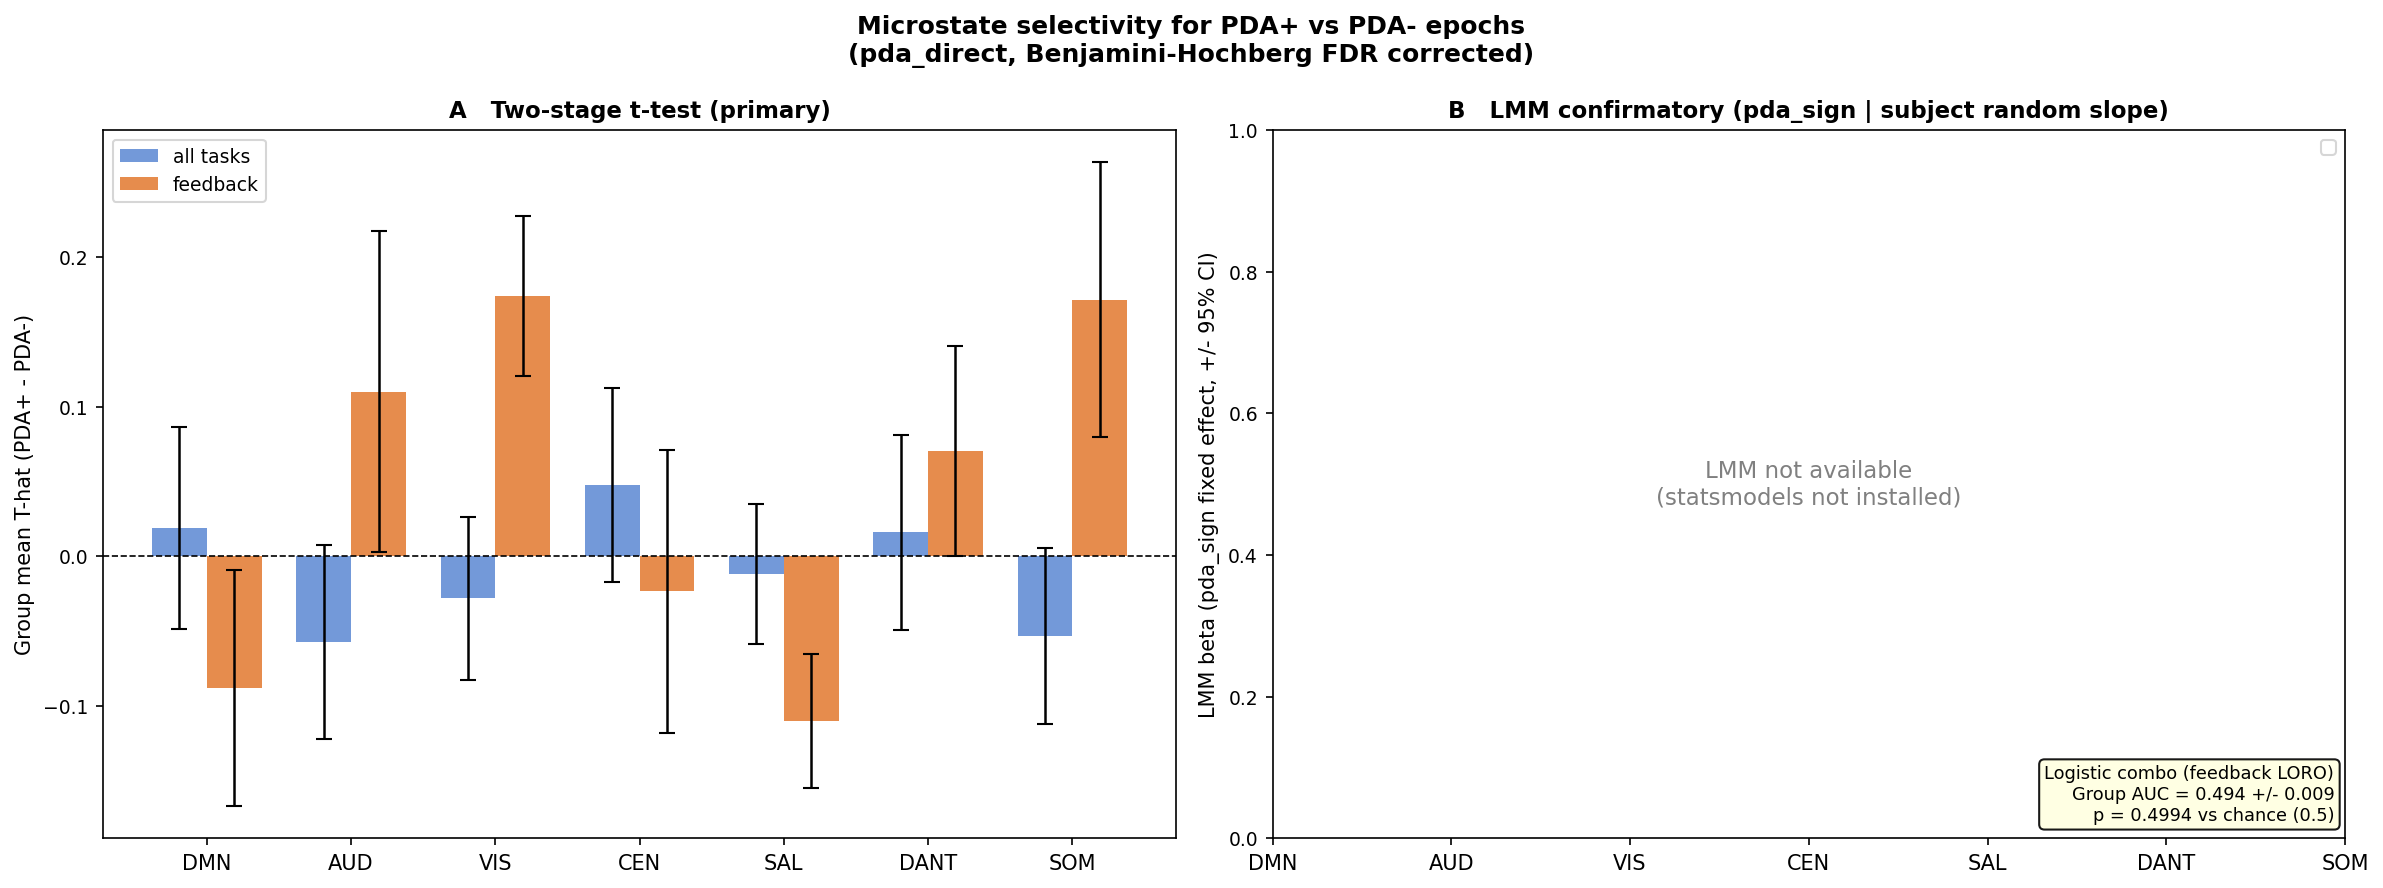
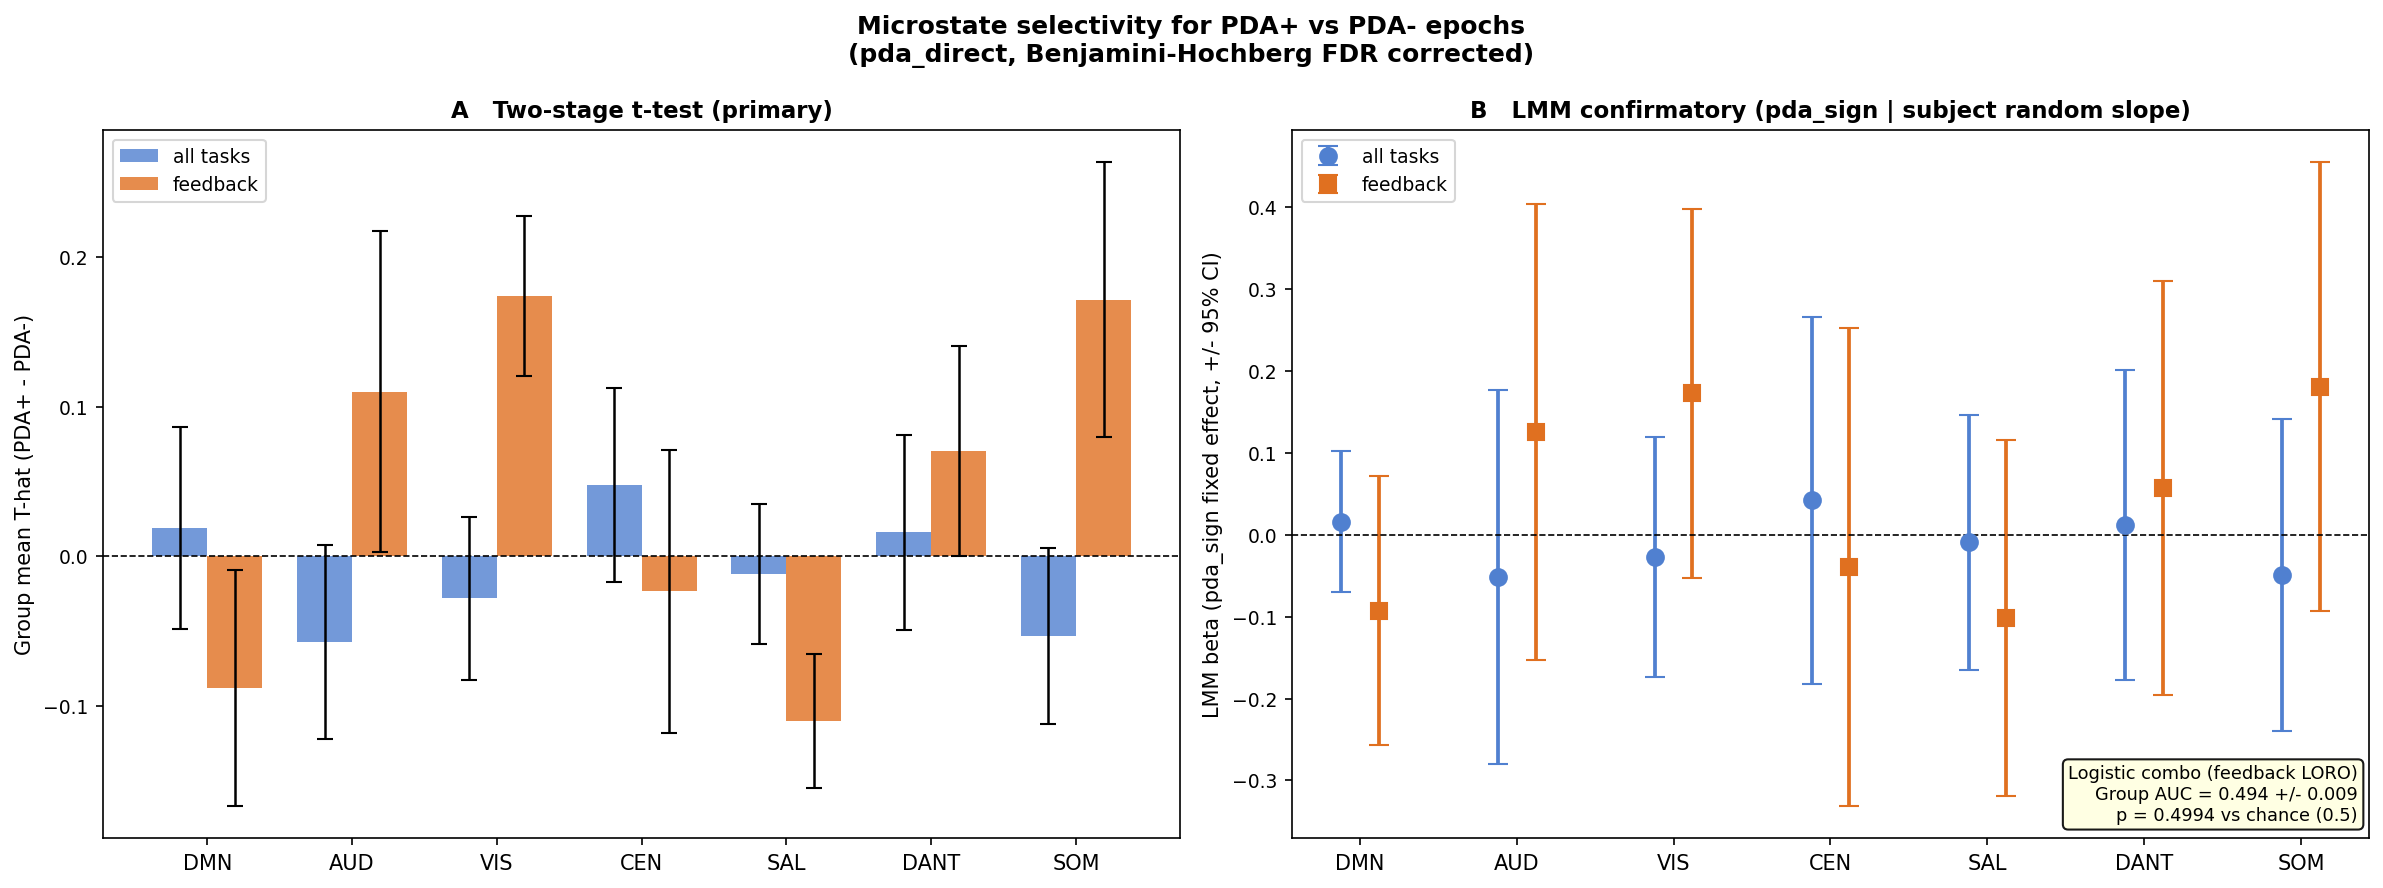
fix LMM CSV bug; regenerate step 06 figures with correct data
write_csv now uses union of all row keys so LMM rows (with interaction_p)
are no longer silently dropped. Reran cluster job 6282731 with statsmodels
installed; re-fetched all three CSVs and both PNGs. Panel B (LMM forest)
is now populated in both cluster and local summary figures.

add make_summary_figure.py: local 3-panel summary from results/stats CSVs
(t-test bars / LMM forest with interaction dagger / logistic LORO AUC)

diff --git a/make_summary_figure.py b/make_summary_figure.py
@@ -1,0 +1,196 @@
+#!/usr/bin/env python3
+"""
+make_summary_figure.py
+Regenerate results/stats/summary_figure_250Hz.png from local CSVs.
+
+Panel A: Two-stage group t-test bars (all tasks vs feedback)
+Panel B: LMM fixed-effect forest plot with 95% CI (dagger = task interaction p<0.05)
+Panel C: Logistic LORO AUC per subject, group mean +/- SE vs chance (0.5)
+"""
+import csv
+import numpy as np
+import matplotlib
+matplotlib.use("Agg")
+import matplotlib.pyplot as plt
+from pathlib import Path
+from scipy import stats as spstats
+
+HERE   = Path(__file__).parent
+STATS  = HERE / "results" / "stats"
+TAG    = "250Hz"
+OUT    = STATS / f"summary_figure_{TAG}.png"
+
+MS_LABELS = ["DMN", "AUD", "VIS", "CEN", "SAL", "DANT", "SOM"]
+N_MS = len(MS_LABELS)
+x    = np.arange(N_MS)
+
+C_ALL = "#5080D0"
+C_FB  = "#E07020"
+
+
+def read_csv(path):
+    with open(path, newline="") as f:
+        return list(csv.DictReader(f))
+
+
+def sig_stars(p):
+    try:
+        p = float(p)
+    except (TypeError, ValueError):
+        return ""
+    if p < 0.001: return "***"
+    if p < 0.01:  return "**"
+    if p < 0.05:  return "*"
+    return ""
+
+
+def get_arr(rows, analysis, task_set, key):
+    subset = sorted(
+        [r for r in rows if r["analysis"] == analysis and r["task_set"] == task_set],
+        key=lambda r: int(r["ms_idx"])
+    )
+    out = []
+    for r in subset:
+        v = r.get(key, "")
+        try:
+            out.append(float(v))
+        except (TypeError, ValueError):
+            out.append(float("nan"))
+    return np.array(out)
+
+
+grp = read_csv(STATS / f"group_stats_{TAG}.csv")
+log = read_csv(STATS / f"combination_logistic_{TAG}.csv")
+
+fig, axes = plt.subplots(1, 3, figsize=(20, 6))
+fig.suptitle(
+    "Microstate selectivity for PDA+ vs PDA− epochs\n"
+    "(pda_direct, Benjamini–Hochberg FDR corrected)",
+    fontsize=12, fontweight="bold"
+)
+
+# ── Panel A: Two-stage t-test ──────────────────────────────────
+ax = axes[0]
+w  = 0.38
+
+m_all  = get_arr(grp, "ttest", "all",      "beta")
+se_all = get_arr(grp, "ttest", "all",      "se")
+p_all  = get_arr(grp, "ttest", "all",      "p_fdr")
+m_fb   = get_arr(grp, "ttest", "feedback", "beta")
+se_fb  = get_arr(grp, "ttest", "feedback", "se")
+p_fb   = get_arr(grp, "ttest", "feedback", "p_fdr")
+
+ax.bar(x - w/2, m_all, w, color=C_ALL, alpha=0.80, label="all tasks",
+       yerr=se_all, capsize=4, error_kw={"elinewidth": 1.2})
+ax.bar(x + w/2, m_fb,  w, color=C_FB,  alpha=0.80, label="feedback",
+       yerr=se_fb,  capsize=4, error_kw={"elinewidth": 1.2})
+ax.axhline(0, color="black", lw=0.8, ls="--")
+
+_ymax = np.nanmax(np.abs(np.concatenate([m_all + se_all, m_fb + se_fb]))) * 1.3
+for i in range(N_MS):
+    s = sig_stars(p_all[i])
+    if s:
+        ax.text(x[i] - w/2, m_all[i] + se_all[i] + _ymax * 0.04, s,
+                ha="center", va="bottom", fontsize=13, color=C_ALL, fontweight="bold")
+    s = sig_stars(p_fb[i])
+    if s:
+        ax.text(x[i] + w/2, m_fb[i] + se_fb[i] + _ymax * 0.04, s,
+                ha="center", va="bottom", fontsize=13, color=C_FB, fontweight="bold")
+
+ax.set_xticks(x); ax.set_xticklabels(MS_LABELS, fontsize=10)
+ax.set_ylabel("Group mean ΔT-hat (PDA+ − PDA−)", fontsize=10)
+ax.set_title("A   Two-stage t-test (primary)", fontsize=11, fontweight="bold")
+ax.legend(fontsize=9); ax.tick_params(axis="y", labelsize=9)
+
+# ── Panel B: LMM fixed effects ─────────────────────────────────
+ax = axes[1]
+
+b_all  = get_arr(grp, "lmm", "all",      "beta")
+b_fb   = get_arr(grp, "lmm", "feedback", "beta")
+cl_all = get_arr(grp, "lmm", "all",      "ci_lo")
+ch_all = get_arr(grp, "lmm", "all",      "ci_hi")
+cl_fb  = get_arr(grp, "lmm", "feedback", "ci_lo")
+ch_fb  = get_arr(grp, "lmm", "feedback", "ci_hi")
+p_lm_all = get_arr(grp, "lmm", "all",      "p_fdr")
+p_lm_fb  = get_arr(grp, "lmm", "feedback", "p_fdr")
+ip_all   = get_arr(grp, "lmm", "all",      "interaction_p")
+
+if not np.all(np.isnan(b_all)):
+    e_all = [b_all - cl_all, ch_all - b_all]
+    e_fb  = [b_fb  - cl_fb,  ch_fb  - b_fb ]
+    ax.errorbar(x - 0.12, b_all, yerr=e_all, fmt="o", color=C_ALL,
+                capsize=5, markersize=8, label="all tasks", lw=1.8)
+    ax.errorbar(x + 0.12, b_fb,  yerr=e_fb,  fmt="s", color=C_FB,
+                capsize=5, markersize=8, label="feedback",  lw=1.8)
+    ax.axhline(0, color="black", lw=0.8, ls="--")
+
+    _ymax2 = np.nanmax(np.abs(np.concatenate([ch_all, ch_fb]))) * 1.35
+    for i in range(N_MS):
+        # significance stars (FDR)
+        s = sig_stars(p_lm_all[i])
+        if s:
+            ax.text(x[i] - 0.12, b_all[i] + e_all[1][i] + _ymax2 * 0.04, s,
+                    ha="center", va="bottom", fontsize=13, color=C_ALL, fontweight="bold")
+        s = sig_stars(p_lm_fb[i])
+        if s:
+            ax.text(x[i] + 0.12, b_fb[i] + e_fb[1][i] + _ymax2 * 0.04, s,
+                    ha="center", va="bottom", fontsize=13, color=C_FB, fontweight="bold")
+        # task interaction dagger
+        try:
+            if not np.isnan(ip_all[i]) and ip_all[i] < 0.05:
+                ax.text(x[i], max(ch_all[i], ch_fb[i]) + _ymax2 * 0.10, "†",
+                        ha="center", va="bottom", fontsize=13, color="black")
+        except (TypeError, ValueError):
+            pass
+else:
+    ax.text(0.5, 0.5, "LMM not available\n(statsmodels not installed)",
+            ha="center", va="center", transform=ax.transAxes,
+            fontsize=11, color="gray")
+
+ax.set_xticks(x); ax.set_xticklabels(MS_LABELS, fontsize=10)
+ax.set_ylabel("LMM beta (pda_sign, ±95% CI)", fontsize=10)
+ax.set_title("B   LMM confirmatory (pda_sign | subject random slope)",
+             fontsize=11, fontweight="bold")
+ax.legend(fontsize=9); ax.tick_params(axis="y", labelsize=9)
+ax.text(0.02, 0.98, "† task interaction p<0.05", transform=ax.transAxes,
+        fontsize=8, va="top", color="black", style="italic")
+
+# ── Panel C: Logistic LORO AUC ─────────────────────────────────
+ax = axes[2]
+
+aucs = np.array([float(r["mean_auc"]) for r in log])
+subjects = [r["subject"] for r in log]
+n = len(aucs)
+
+jitter = np.random.default_rng(42).uniform(-0.15, 0.15, n)
+ax.scatter(np.zeros(n) + jitter, aucs, color=C_ALL, alpha=0.75, s=60, zorder=3)
+for subj, xi, yi in zip(subjects, jitter, aucs):
+    ax.text(xi + 0.02, yi, subj.replace("sub-dmnelf", "s"), fontsize=7,
+            va="center", color="gray")
+
+mean_auc = float(np.mean(aucs))
+se_auc   = float(np.std(aucs, ddof=1) / np.sqrt(n))
+t_stat, p_vs_chance = spstats.ttest_1samp(aucs, 0.5)
+
+ax.errorbar([0], [mean_auc], yerr=[se_auc], fmt="D", color=C_FB,
+            markersize=10, capsize=6, lw=2.2, zorder=5, label="group mean ±SE")
+ax.axhline(0.5, color="black", lw=1.0, ls="--", label="chance (0.5)")
+
+ax.set_xlim(-0.6, 0.6)
+ax.set_xticks([])
+ax.set_ylabel("LORO CV AUC", fontsize=10)
+ax.set_title("C   Logistic combination (feedback runs, LORO CV)",
+             fontsize=11, fontweight="bold")
+ax.legend(fontsize=9)
+ax.tick_params(axis="y", labelsize=9)
+
+txt = (f"Group AUC = {mean_auc:.3f} ± {se_auc:.3f}\n"
+       f"p = {p_vs_chance:.4f} vs chance (0.5)")
+ax.text(0.98, 0.02, txt, ha="right", va="bottom", transform=ax.transAxes,
+        fontsize=9, bbox=dict(boxstyle="round,pad=0.3", facecolor="lightyellow", alpha=0.9))
+
+# ── Save ───────────────────────────────────────────────────────
+plt.tight_layout()
+plt.savefig(str(OUT), dpi=150, bbox_inches="tight")
+plt.close(fig)
+print(f"Saved: {OUT}")

diff --git a/06_stats_microstate_pda.py b/06_stats_microstate_pda.py
@@ -426,8 +426,13 @@ lines = [
     '',
     'def write_csv(path, rows):',
     '    if not rows: return',
+    '    # Union of all keys across all rows (handles rows with different schemas)',
+    '    seen = {}',
+    '    for r in rows:',
+    '        for k in r: seen[k] = None',
+    '    fields = list(seen.keys())',
     '    with open(str(path), "w", newline="") as f:',
-    '        w = csv.DictWriter(f, fieldnames=list(rows[0].keys()))',
+    '        w = csv.DictWriter(f, fieldnames=fields, extrasaction="ignore")',
     '        w.writeheader(); w.writerows(rows)',
     '    print("  " + path.name)',
     '',
